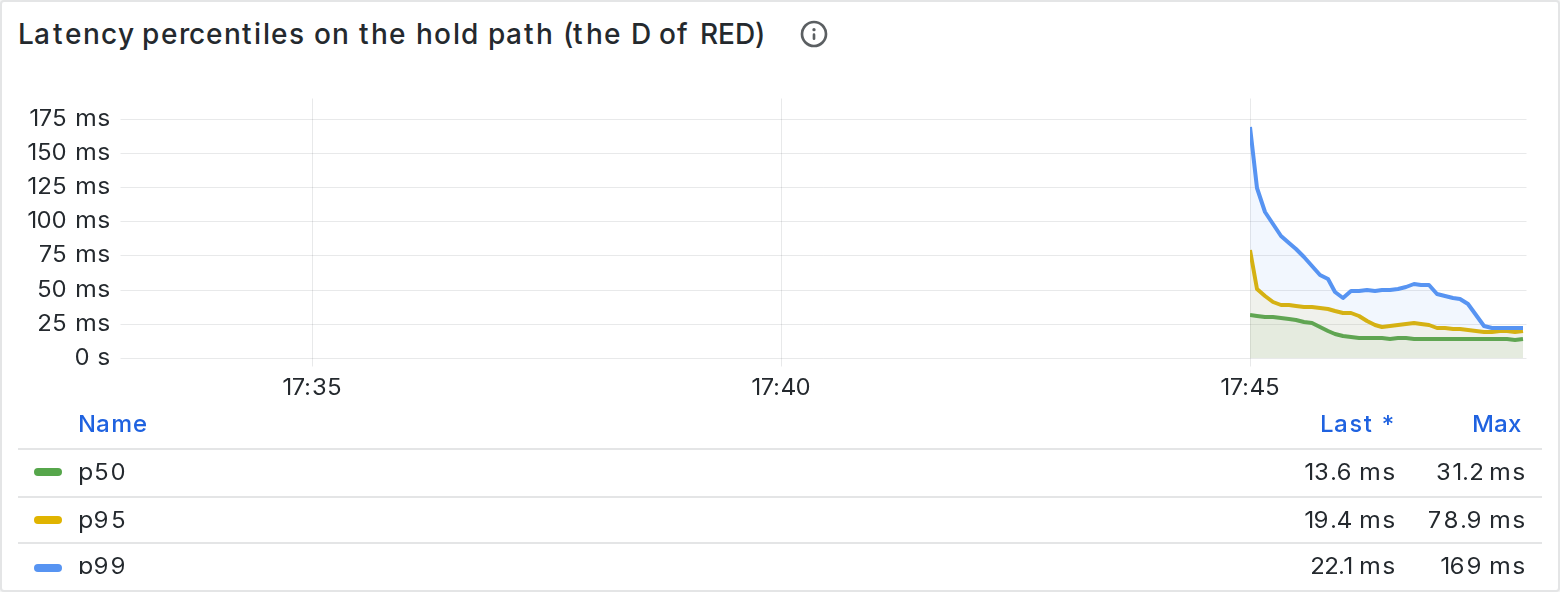
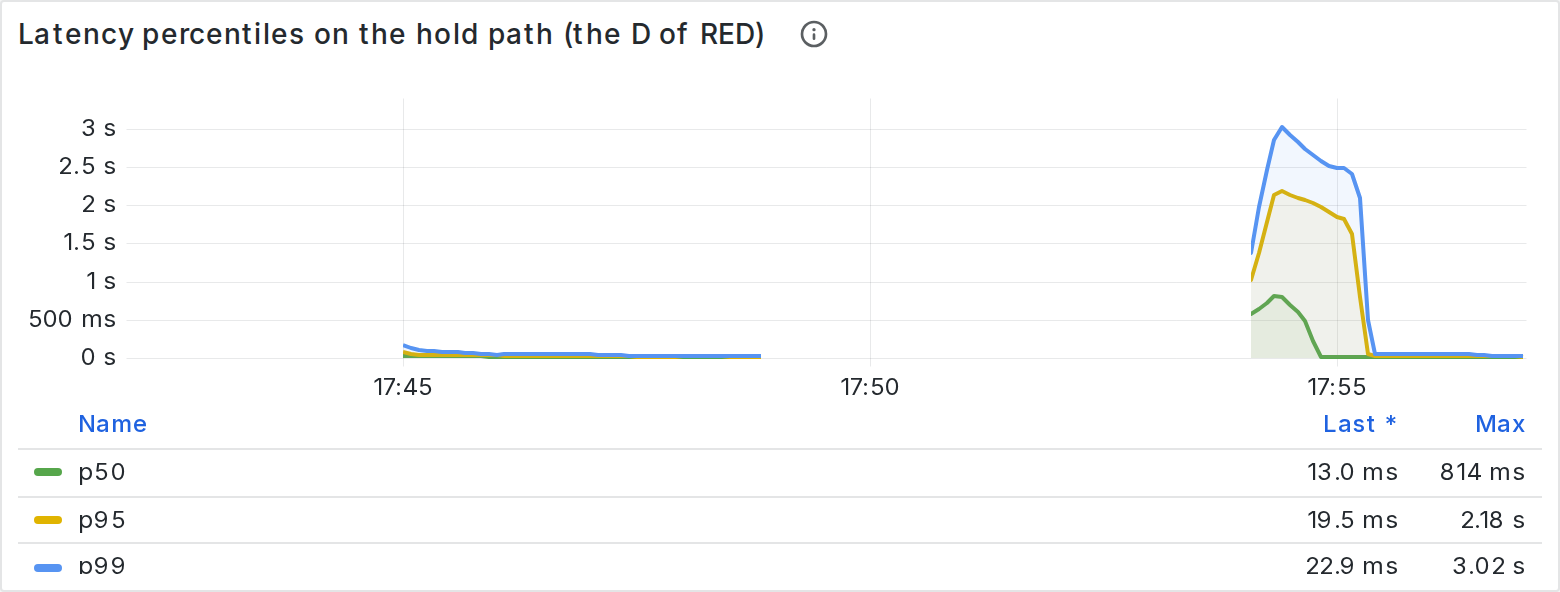
Commit the dashboard screenshots, with data on them
Four images: the full overview under load and close-ups of hold latency,
pool saturation and SSE connections by replica. The hold-path percentiles
on them - p50 13.6 ms, p95 19.4 ms, p99 22.1 ms at about 150 requests a
second - agree with the capacity sweep measured a different way, which is
the first independent corroboration either number has had.

diff --git a/web/dashboards/overview.spec.ts b/web/dashboards/overview.spec.ts
@@ -24,15 +24,7 @@ test('the service overview has data on it', async ({ page }) => {
   // scrolling captures the top of the dashboard and blank space where the rest should be. The
   // first capture showed ten panels of fifteen and the close-up test could not find the eleventh
   // at all. Scroll to the bottom, let everything load, then go back to the top.
-  await page.evaluate(async () => {
-    const scroller = document.querySelector('.scrollbar-view') ?? document.scrollingElement
-    if (!scroller) return
-    for (let y = 0; y <= scroller.scrollHeight; y += 400) {
-      scroller.scrollTop = y
-      await new Promise((resolve) => setTimeout(resolve, 120))
-    }
-    scroller.scrollTop = 0
-  })
+  await scrollWholeDashboard(page)
 
   await page.waitForFunction(() => document.querySelectorAll('[aria-label="Panel loading bar"]').length === 0, null, {
     timeout: 120_000,
@@ -57,6 +49,7 @@ test('the RED panels and the pool, close up', async ({ page }) => {
     ['Open SSE connections by replica', 'grafana-sse-connections.png'],
   ]
   await page.goto(`${dashboard}${params}`)
+  await scrollWholeDashboard(page)
   await page.waitForFunction(() => document.querySelectorAll('[aria-label="Panel loading bar"]').length === 0, null, {
     timeout: 120_000,
   })
@@ -66,9 +59,8 @@ test('the RED panels and the pool, close up', async ({ page }) => {
     // the DOM until it is scrolled to. Waiting for it to become visible therefore times out on
     // exactly the panels that are furthest down - "Database pool saturation" was the first one
     // past the fold and the only one that failed.
-    const heading = page.getByText(title, { exact: false }).first()
-    await heading.scrollIntoViewIfNeeded()
     const panel = page.locator('[data-testid^="data-testid Panel header"]', { hasText: title }).first()
+    await panel.scrollIntoViewIfNeeded()
     const container = panel.locator('xpath=ancestor::*[contains(@class, "react-grid-item")]').first()
     await expect(container).toBeVisible()
     // Scrolling starts a query for a panel that had not loaded yet; let it finish before capturing.
@@ -80,3 +72,22 @@ test('the RED panels and the pool, close up', async ({ page }) => {
     await container.screenshot({ path: join(imageDir, file) })
   }
 })
+
+/**
+ * Puts every panel in the DOM.
+ *
+ * Grafana renders only the panels near the viewport, so a full-page screenshot taken without
+ * scrolling captures the top of the dashboard and blank space where the rest should be - ten
+ * panels of fifteen, the first time this ran.
+ */
+async function scrollWholeDashboard(page: import('@playwright/test').Page): Promise<void> {
+  await page.evaluate(async () => {
+    const scroller = document.querySelector('.scrollbar-view') ?? document.scrollingElement
+    if (!scroller) return
+    for (let y = 0; y <= scroller.scrollHeight; y += 400) {
+      scroller.scrollTop = y
+      await new Promise((resolve) => setTimeout(resolve, 120))
+    }
+    scroller.scrollTop = 0
+  })
+}

diff --git a/README.md b/README.md
@@ -100,6 +100,22 @@ measurement was wrong before the software was:
 
 ---
 
+## The dashboard, with traffic on it
+
+![The Willcall service overview dashboard under load: requests per second by endpoint, errors by
+status, hold-path latency percentiles, holds granted and refused, active holds and sweeper
+releases, waiting-room depth, open SSE connections by replica, delta fan-out, outbox backlog,
+database pool saturation, and refund cases.](docs/images/grafana-overview.png)
+
+Captured by `make dashboards`, which runs load first and **refuses to save a screenshot when more
+than half the panels are empty**. That assertion is why the dashboard works at all: every panel
+had been rendering "No data" since it was written, because the panels name a datasource uid the
+provisioning file never set. Grafana draws an empty panel for an unresolvable datasource, which
+looks exactly like a quiet system. Two panels were still empty after that was fixed, for a
+different reason: they query `histogram_quantile` over bucket series, and the application was
+publishing per-JVM summary quantiles, which cannot be combined across three replicas. Both are
+described in [docs/slo.md](docs/slo.md).
+
 ## What the game day found
 
 Four faults injected into the running stack with traffic flowing, each with its prediction written
